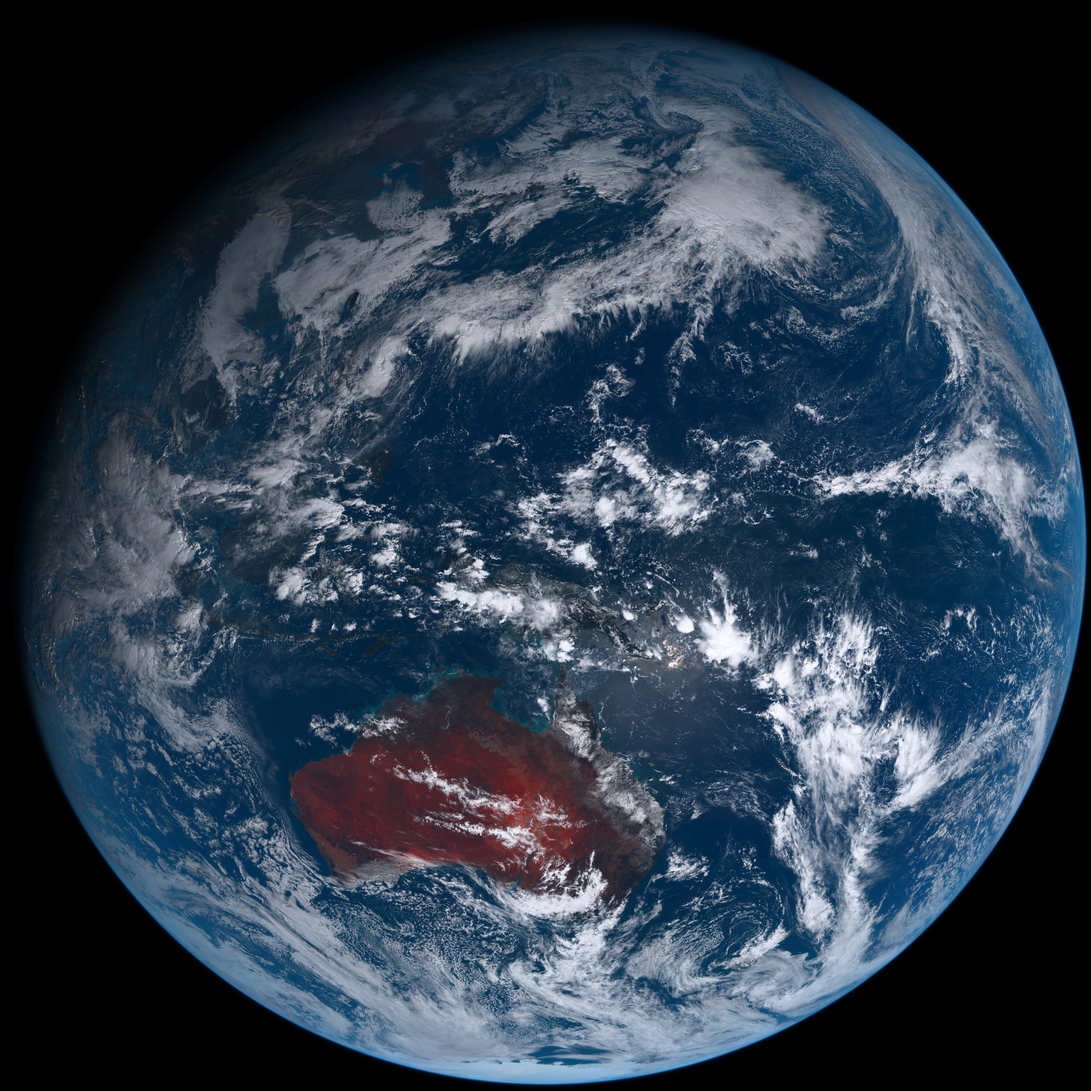
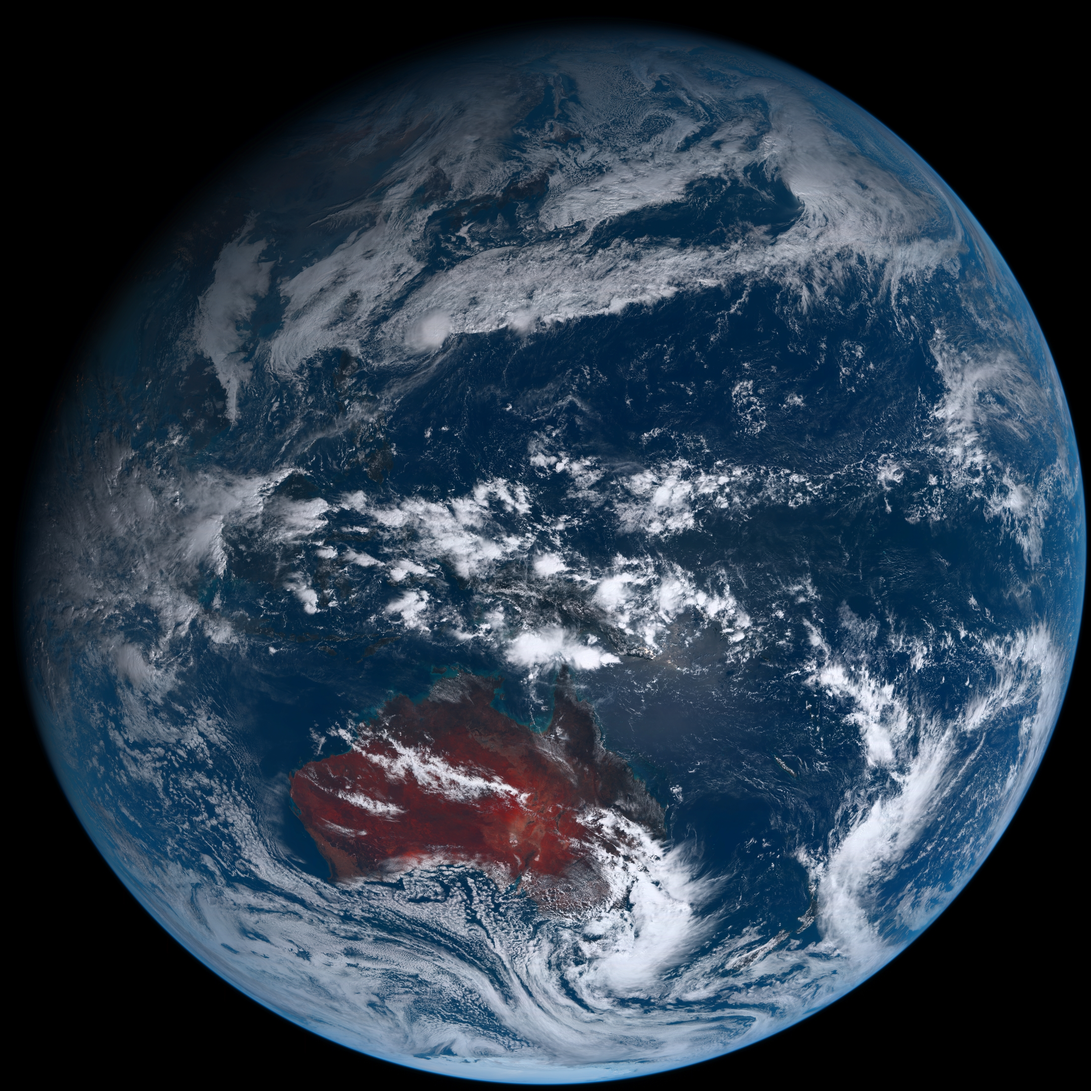
Monday 12/12/2022 03:15 +00

diff --git a/README.md b/README.md
@@ -1,12 +1,12 @@
 # ps1
 
 - ### [BingWallpaper](https://github.com/milankomaj/ps1/wiki/BingWallpaper)  [![Generate Wallpapers Github README.md](https://github.com/milankomaj/ps1/actions/workflows/GenWall.yml/badge.svg?event=schedule)](https://github.com/milankomaj/ps1/actions/workflows/GenWall.yml)
-- ##### Sunday 11/12/2022 03:14:37 +00
+- ##### Monday 12/12/2022 03:14:27 +00
 <img src="BingWallpaper/latest.jpg" width="700" height="auto" title="👉  BingWallpaper  👈">
 
 
 - ### [Himawari](https://github.com/milankomaj/ps1/wiki/Himawari) [![Generate Wallpapers Github README.md](https://github.com/milankomaj/ps1/actions/workflows/GenWall.yml/badge.svg?event=schedule)](https://github.com/milankomaj/ps1/actions/workflows/GenWall.yml) [![Video](https://github.com/milankomaj/ps1/actions/workflows/video.yml/badge.svg?event=schedule)](https://github.com/milankomaj/ps1/actions/workflows/video.yml)
-- ##### Sunday 11/12/2022 03:15:13 +00
+- ##### Monday 12/12/2022 03:15:02 +00
 <img src="Himawari/latest.jpg" width="auto" height="371" title="👉  Himawari  👈"> <img src="Himawari/pifd/himawari_pifd.webp" width="auto" height="371"/>
 
 
